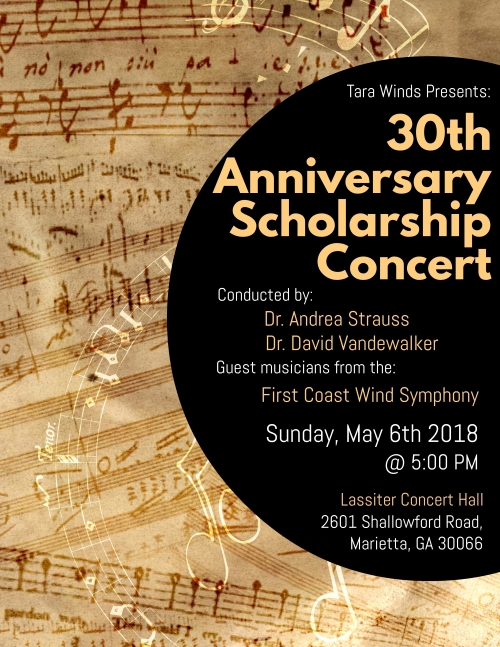
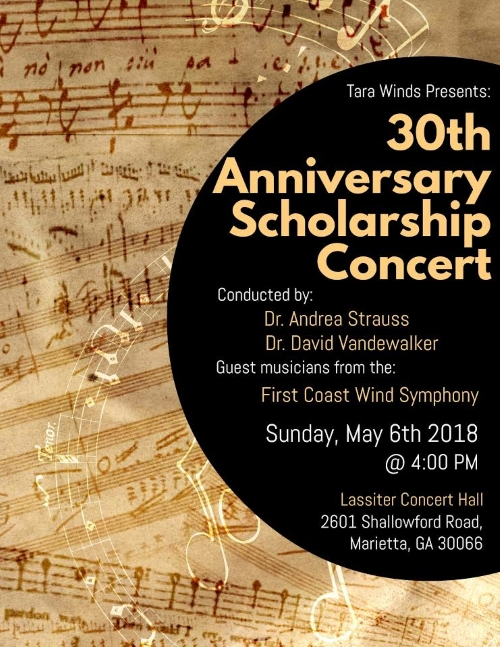
Updated time of Scholarship concert from 5:00 PM to 4:00 PM.

diff --git a/Tara Winds website/schedule.html b/Tara Winds website/schedule.html
@@ -275,7 +275,7 @@
 			<p>April 8 Campbell High School</p>
 			<p>April 22 Union Grove High School</p>
 			<p>April 29 Campbell High School</p>
-			<p style="background:#ffff00;font-weight:bold;padding:5px">Sunday May 6 Tara Winds 30th Anniversary/Scholarship Concert with members from the First Coast Wind Symphony Jacksonville, FL Lassiter Concert Hall @ 5:00 PM Sound Check 2:30- 4:30 PM</p>
+			<p style="background:#ffff00;font-weight:bold;padding:5px">Sunday May 6 Tara Winds 30th Anniversary/Scholarship Concert with members from the First Coast Wind Symphony Jacksonville, FL Lassiter Concert Hall @ 4:00 PM Sound Check 2:30- 3:30 PM</p>
 			<p style="background:#ffff00;font-weight:bold;padding:5px">30th Anniversary Germany Tour 2018 - June 19-July 1, 2018</p>
             <!-- 2017 Performance Calendar end -->
 
